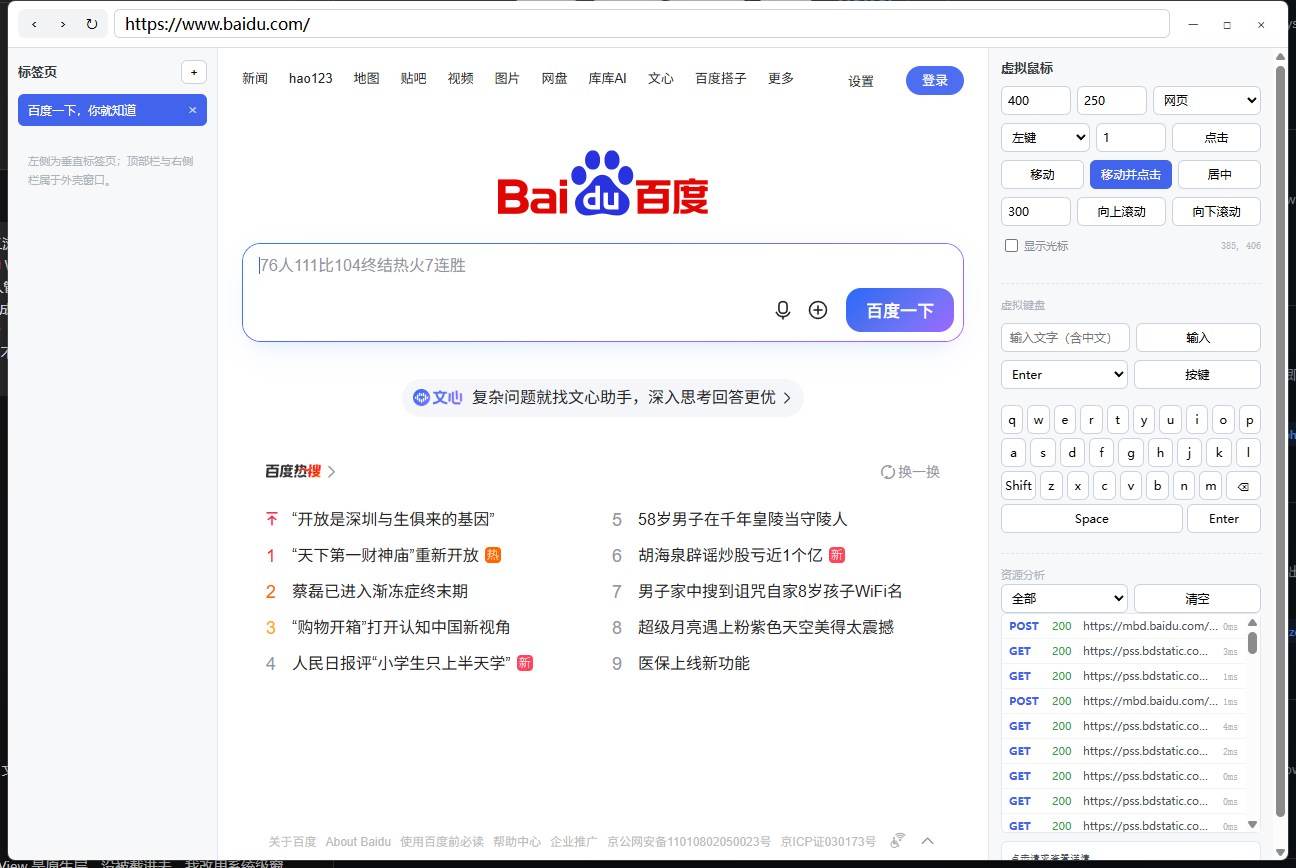
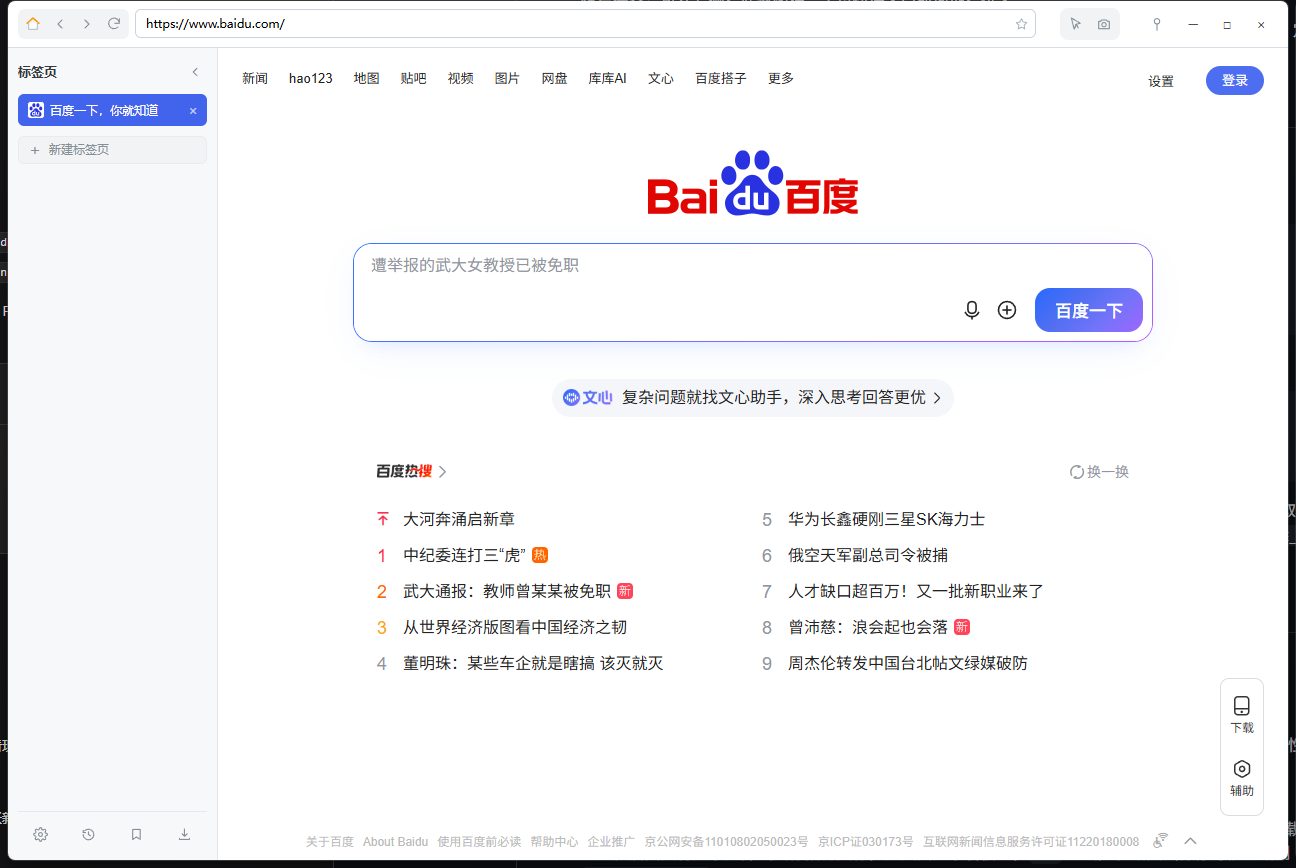
Refresh screenshots for new toolbar and virtual console

diff --git a/README.en.md b/README.en.md
@@ -6,9 +6,11 @@ A simple Agent browser. Web pages run in independent `WebContentsView` instances
 
 ## Screenshots
 
-![Viewer main window: tabs, web area and tool panel](docs/screenshots/01-browser.png)
+![Viewer main window: new toolbar, vertical tabs and web area](docs/screenshots/01-browser.png)
 
-![Interaction test page: web area and tool panel](docs/screenshots/02-test-page.png)
+![Built-in history page](docs/screenshots/02-history.png)
+
+![Virtual console: virtual mouse, virtual keyboard and resource analysis](docs/screenshots/03-console.png)
 
 ## Features
 

diff --git a/README.md b/README.md
@@ -6,9 +6,11 @@
 
 ## 截图
 
-![Viewer 主界面：标签页与网页区](docs/screenshots/01-browser.png)
+![Viewer 主界面：新工具栏、垂直标签与网页区](docs/screenshots/01-browser.png)
 
-![交互测试页](docs/screenshots/02-test-page.png)
+![内置历史记录页](docs/screenshots/02-history.png)
+
+![虚拟控制台：虚拟鼠标、虚拟键盘与资源分析](docs/screenshots/03-console.png)
 
 ## 功能
 
